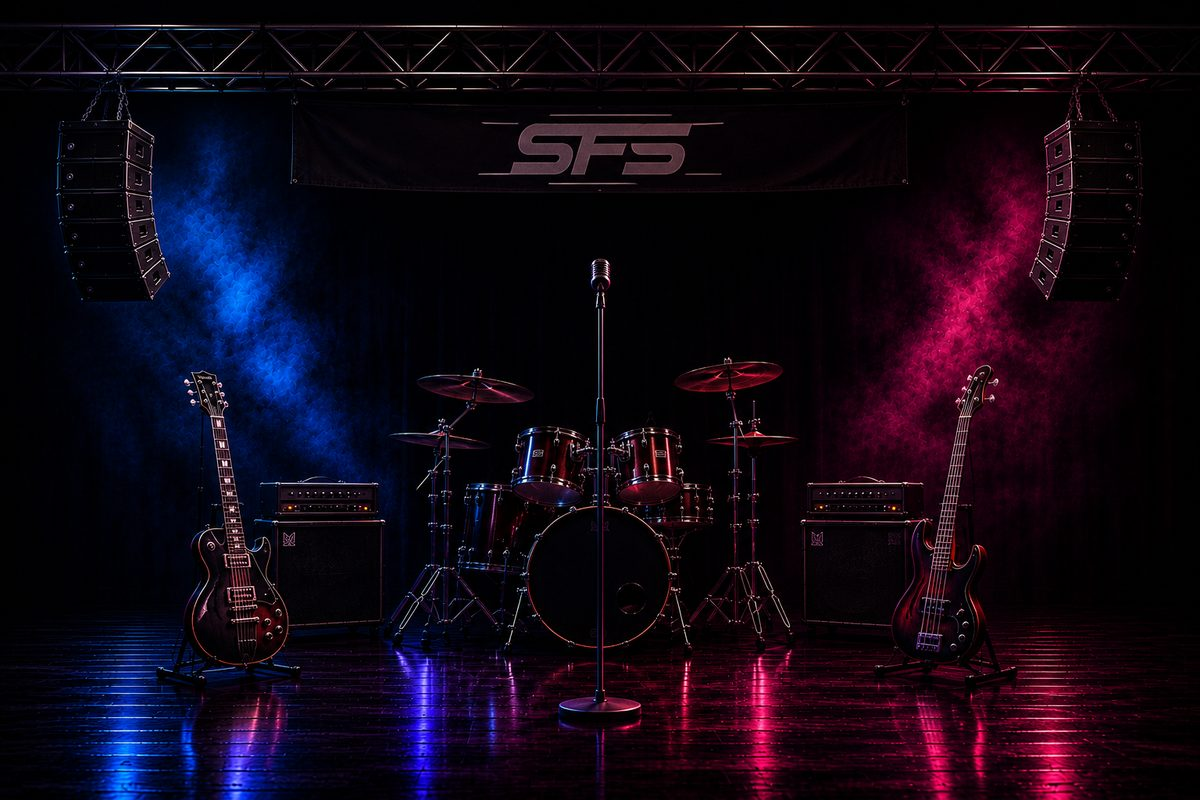
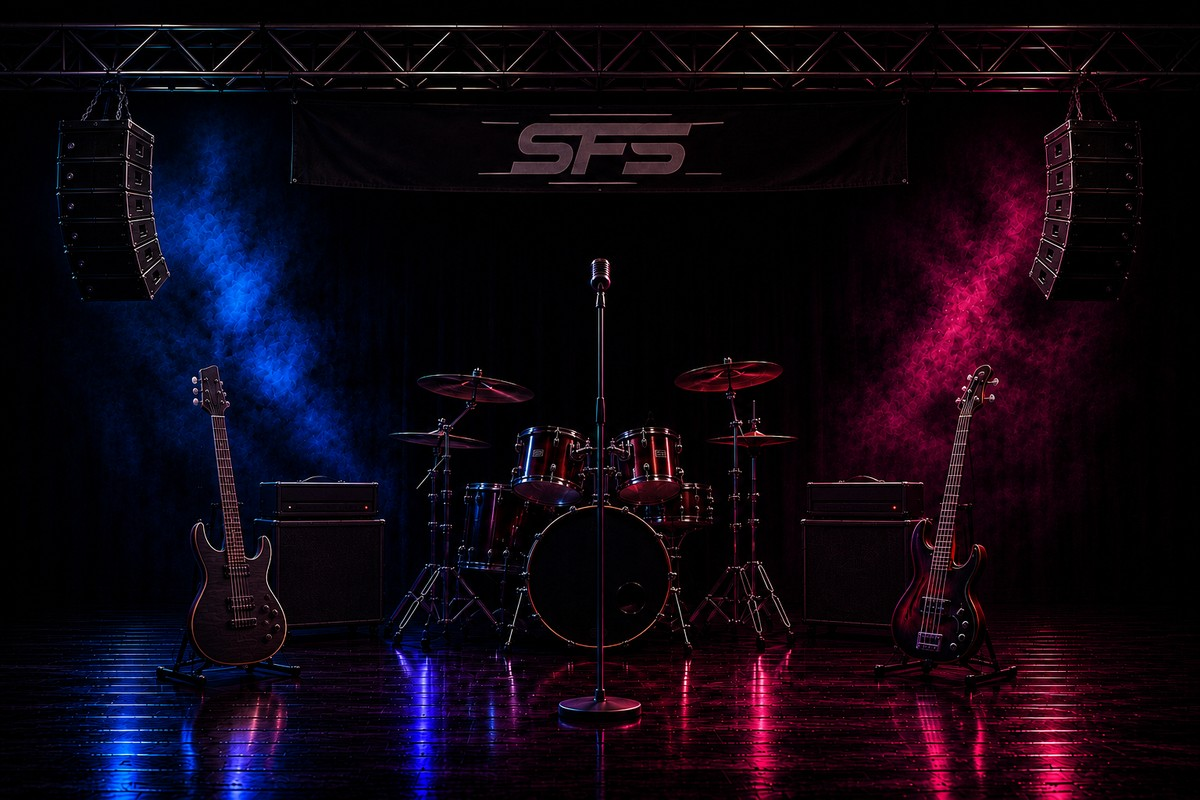
v267: music header and Face the Music tri card - guitars redrawn
Audit feedback: the guitars read as Fenders. Fender's Stratocaster body
outline and its six-in-line headstock are registered trade dress, so the
resemblance was worth removing.

Both replacements are clean:
- 3+3 and 3+2 split headstocks, not six-in-line
- no pickguards (the white 11-hole guard is one of the Strat's most
  identifiable features)
- humbuckers rather than three single coils
- generic superstrat and figured-top double-cutaway outlines
- no wordmark on any headstock, amp or drum head; amps are plain black
  cabinets with no logo, grille pattern or piping

Header brightness checked against the house standard, since the rainbow
logo sits on this image with mix-blend-mode:screen and a bright background
would wash it out: new header measures 14.2 mean / 6.9 under the logo,
against 15.7 / 7.1 before - still the darkest of the three worlds.

index.html: music-header.jpg?v=13 -> ?v=14, intro-tri1.jpg?v=1 -> ?v=2.

Claude-Session: https://claude.ai/code/session_012avjdYG8yRCMZ3uJswRWwC

diff --git a/index.html b/index.html
@@ -429,7 +429,7 @@ body.view-browse #topbar{display:none}body.view-browse #brandBar{display:none}.b
 .triP.p1{top:0}.triP.p2{top:33.33%}.triP.p3{top:66.66%}
 .triBg{position:absolute;inset:0;background-size:cover;background-position:center;opacity:0;transition:opacity .16s ease}
 .triBg.in{opacity:1}
-.triP.p1 .triBg{background-image:url('intro-tri1.jpg?v=1')}
+.triP.p1 .triBg{background-image:url('intro-tri1.jpg?v=2')}
 .triP.p2 .triBg{background-image:url('intro-tri2.jpg?v=1')}
 .triP.p3 .triBg{background-image:url('intro-tri3.jpg?v=1')}
 .triTxt{position:absolute;inset:0;display:flex;align-items:center;justify-content:center;text-align:center;font-family:var(--disp);font-size:clamp(20px,6.6vw,34px);letter-spacing:2px;text-transform:uppercase;padding:0 5vw;line-height:1.05;opacity:0;transform:scale(.95);transition:opacity .22s ease,transform .22s ease;z-index:2}
@@ -983,7 +983,7 @@ function numShelf(title,arr){ if(arr.length<1) return ''; var tiles=arr.map(func
 /* ===== views: Play (home) · Explore · My Vaults ===== */
 var curEdition='music', curView='play';
 function setEdition(id){ curEdition=id; var e=edById(id); if(e) document.documentElement.style.setProperty('--accent', e.accent); applyTheme(id,true); render(); var app=document.getElementById('app'); if(app){ app.classList.remove('edin'); void app.offsetWidth; app.classList.add('edin'); } window.scrollTo(0,0); }
-var THEME={music:{hdr:"music-header.jpg?v=13",logo:"music-logo.png?v=7",floor:"music-floor.jpg?v=3",fb:0.3},filmtv:{hdr:"movies-header.jpg?v=2",logo:"movies-logo.png?v=4",floor:"movies-floor.jpg?v=1",fb:0.55},sports:{hdr:"sports-header.jpg?v=2",logo:"sports-logo.png?v=7",floor:"sports-floor.jpg?v=1",fb:0.3},family:{hdr:"family-header.jpg?v=3",logo:"family-logo.png?v=1",floor:"",fb:0.3}};
+var THEME={music:{hdr:"music-header.jpg?v=14",logo:"music-logo.png?v=7",floor:"music-floor.jpg?v=3",fb:0.3},filmtv:{hdr:"movies-header.jpg?v=2",logo:"movies-logo.png?v=4",floor:"movies-floor.jpg?v=1",fb:0.55},sports:{hdr:"sports-header.jpg?v=2",logo:"sports-logo.png?v=7",floor:"sports-floor.jpg?v=1",fb:0.3},family:{hdr:"family-header.jpg?v=3",logo:"family-logo.png?v=1",floor:"",fb:0.3}};
 var _hb=1,_lg=1,_fl=1;
 function applyTheme(id,animate){ var t=THEME[id]||THEME.music; var hb=1-_hb,h=document.getElementById('hdr'+hb),ho=document.getElementById('hdr'+_hb); if(h){h.style.backgroundImage="url('"+t.hdr+"')";h.style.opacity='1';} if(ho)ho.style.opacity='0'; _hb=hb; var lg=1-_lg,l=document.getElementById('logo'+lg),lo=document.getElementById('logo'+_lg); if(l){l.src=t.logo;l.style.opacity='1'; if(animate){l.classList.remove('pulse');void l.offsetWidth;l.classList.add('pulse');}} if(lo)lo.style.opacity='0'; _lg=lg; var fl=1-_fl,fe=document.getElementById('floor'+fl),foe=document.getElementById('floor'+_fl); var _fg={music:"linear-gradient(180deg,rgba(0,0,0,.62) 0%,rgba(0,0,0,.30) 16%,rgba(0,0,0,0) 38%),radial-gradient(85% 55% at 86% 4%,rgba(126,74,224,.24),rgba(126,74,224,0) 55%),radial-gradient(95% 70% at 8% 14%,rgba(70,40,130,.50),rgba(70,40,130,0) 60%),linear-gradient(165deg,#1b1030 0%,#130c24 55%,#0a0714 100%)",sports:"radial-gradient(85% 55% at 88% 6%,rgba(255,130,30,.26),rgba(255,130,30,0) 55%),radial-gradient(95% 68% at 6% 12%,rgba(22,44,86,.60),rgba(22,44,86,0) 58%),linear-gradient(165deg,#111119 0%,#0a0b11 55%,#070709 100%)",filmtv:"radial-gradient(85% 55% at 88% 6%,rgba(242,193,78,.24),rgba(242,193,78,0) 55%),radial-gradient(95% 68% at 6% 12%,rgba(150,110,30,.42),rgba(150,110,30,0) 58%),linear-gradient(165deg,#121118 0%,#0b0a10 55%,#070708 100%)",family:"radial-gradient(85% 55% at 88% 6%,rgba(61,214,140,.22),rgba(61,214,140,0) 55%),radial-gradient(95% 68% at 6% 12%,rgba(24,86,58,.52),rgba(24,86,58,0) 58%),linear-gradient(165deg,#101a16 0%,#0a110e 55%,#060907 100%)"}[id]||''; if(fe){fe.style.backgroundImage=_fg?_fg:"url('"+t.floor+"')";fe.style.opacity='1';} if(foe)foe.style.opacity='0'; _fl=fl; var fbg=document.getElementById('floorbg'); if(fbg) fbg.style.filter='brightness('+(_fg?1:(t.fb||0.3))+')'; var BBBG={music:'#1a0d33',filmtv:'#0e0e12',sports:'#14274d',family:'#10281f'}; var bb=document.getElementById('brandBar'); if(bb) bb.style.background=(BBBG[id]||'#1a0d33'); var mb=document.querySelector('#brandBar .mini-brand img'); if(mb) mb.src=t.logo; var BRBAR={music:'#3EDBFF',filmtv:'#F2C14E',sports:'#FF8A2A',family:'#3DD68C'}; document.documentElement.style.setProperty('--brbar', BRBAR[id]||BRBAR.music); }
 function preloadThemes(){ for(var k in THEME){ (function(t){['hdr','logo','floor'].forEach(function(p){var im=new Image();im.src=t[p];});})(THEME[k]); } }
@@ -1483,7 +1483,7 @@ brandBarState();
    at(4850, endIntro);
    if(repeat){ at(300,function(){ $('#spSkip').classList.add('on'); }); sp.addEventListener('click', endIntro); }
  }
- var srcs=['sfs-unlit.png?v=1','sfs-lit.png?v=1','intro-tri1.jpg?v=1','intro-tri2.jpg?v=1','intro-tri3.jpg?v=1','intro-desc.jpg?v=5'];
+ var srcs=['sfs-unlit.png?v=1','sfs-lit.png?v=1','intro-tri1.jpg?v=2','intro-tri2.jpg?v=1','intro-tri3.jpg?v=1','intro-desc.jpg?v=5'];
  var left=srcs.length, started=false;
  function go(){ if(started)return; started=true; run(); }
  srcs.forEach(function(u){ var i=new Image(); i.onload=i.onerror=function(){ if(--left<=0) go(); }; i.src=u; });

diff --git a/sw.js b/sw.js
@@ -1,4 +1,4 @@
-var CACHE='sfs-v266';
+var CACHE='sfs-v267';
 /* IMPORTANT: do NOT precache the HTML documents. If the app shell is cached, an installed PWA
    can launch straight from cache and bypass Cloudflare Access. Keeping only static assets here
    forces every page launch to hit the network, so the Access login is always enforced. */
